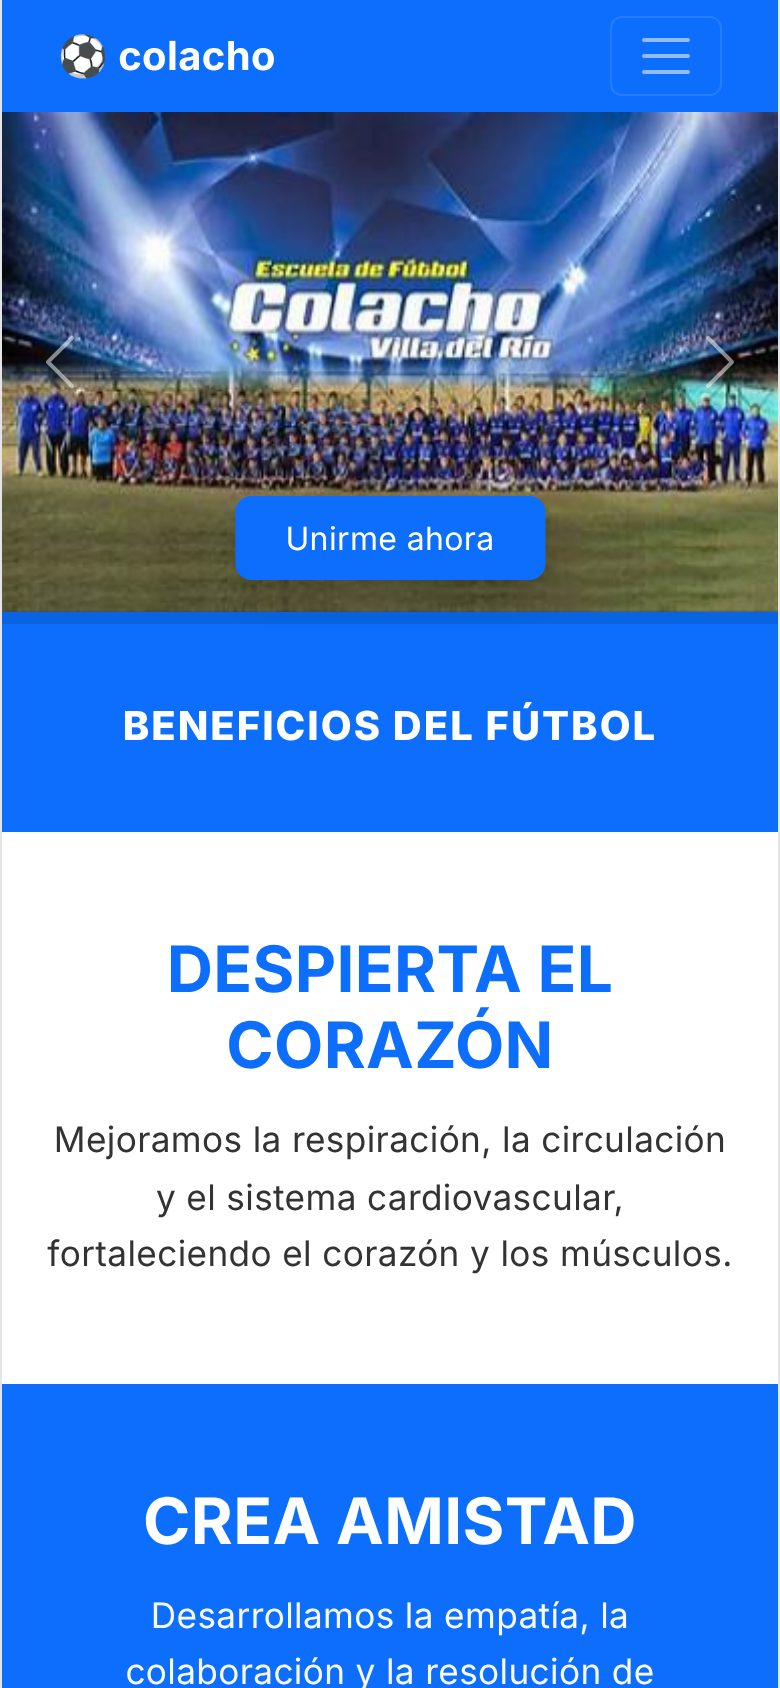
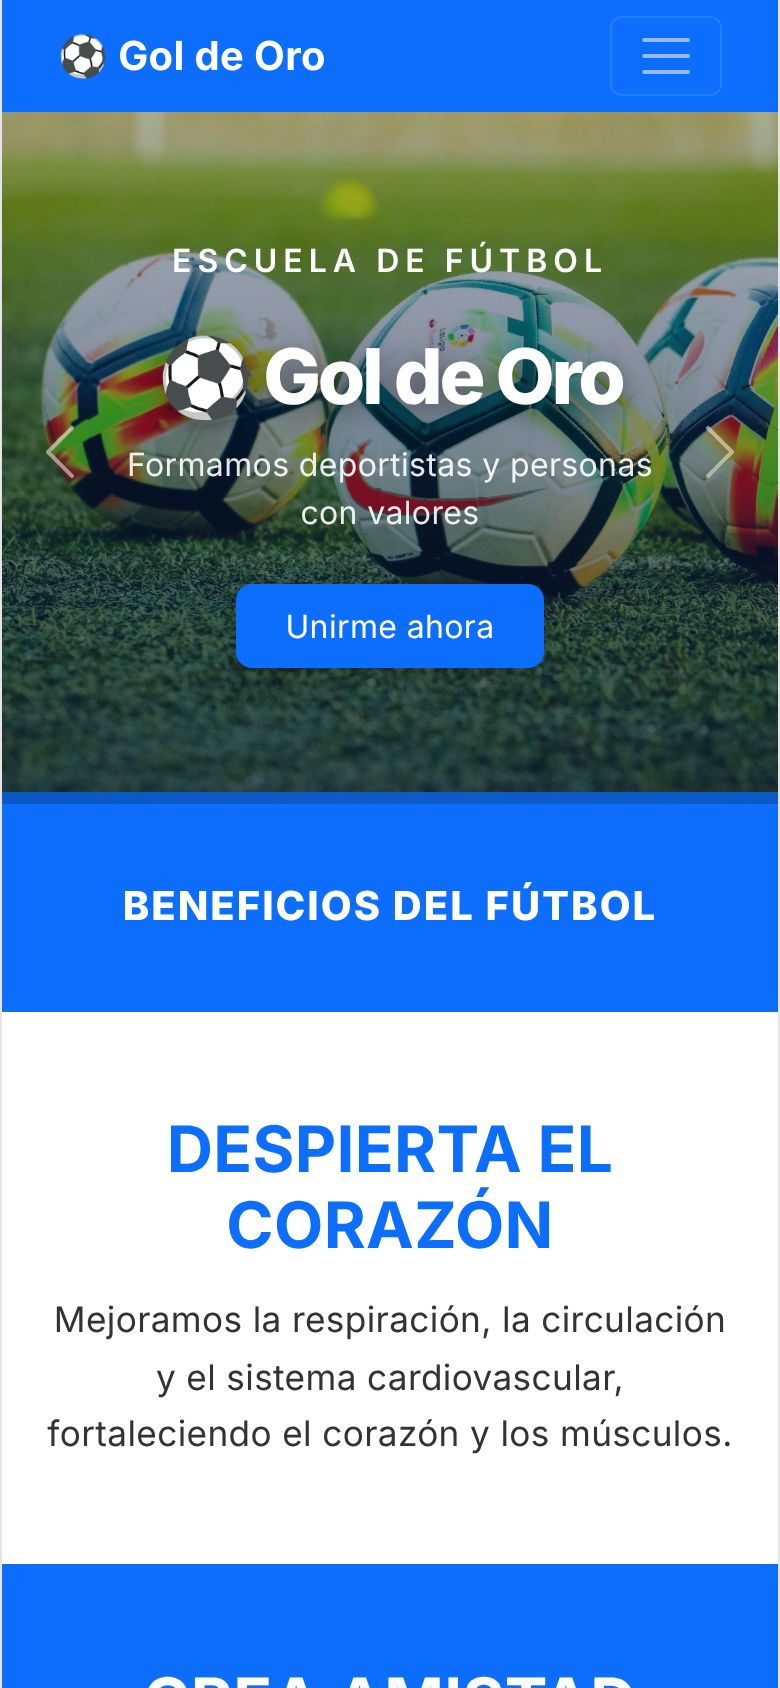
first commit

diff --git a/src/auth/usuariosPrueba.ts b/src/auth/usuariosPrueba.ts
@@ -18,7 +18,7 @@ interface UsuarioConPassword extends Usuario {
 }
 
 export const USUARIOS_PRUEBA: UsuarioConPassword[] = [
-  { id: 1, nombre: 'Administrador', email: 'admin@@goldeoro.com', password: 'admin123', rol: 'admin' },
+  { id: 1, nombre: 'Administrador', email: 'admin@goldeoro.com', password: 'admin123', rol: 'admin' },
   { id: 2, nombre: 'Prof. Alberto', email: 'profe@goldeoro.com', password: 'profe123', rol: 'profesor' },
   { id: 3, nombre: 'Carlos Gómez', email: 'padre@goldeoro.com', password: 'padre123', rol: 'padre', jugadorId: 10 },
   { id: 4, nombre: 'Santiago G.', email: 'jugador@goldeoro.com', password: 'jugador123', rol: 'jugador', jugadorId: 10 },

diff --git a/README.md b/README.md
@@ -1,10 +1,12 @@
-# ⚽ Escuela de Fútbol Colacho
+# ⚽ Escuela de Fútbol Gol de Oro
 
-Plataforma web para una escuela de fútbol infantil de Villa del Río: una **página pública** para atraer nuevas familias y una **zona privada con 4 paneles** (administrador, profesor, padre y jugador), cada uno con sus propias funciones.
+Plataforma web para una escuela de fútbol infantil: una **página pública** para atraer nuevas familias y una **zona privada con 4 paneles** (administrador, profesor, padre y jugador), cada uno con sus propias funciones.
 
-🔗 **Demo en vivo:** [escuela-ten-omega.vercel.app](https://escuela-ten-omega.vercel.app)
+🔗 **Demo en vivo:** [TU-LINK.vercel.app](https://TU-LINK.vercel.app)
 
-> 🧪 **Proyecto en desarrollo.** El frontend está completo; el backend (API + base de datos) es la siguiente etapa. Mientras tanto, los datos se guardan en el navegador (`localStorage`) y el inicio de sesión usa usuarios de prueba.
+> ⚠ **Proyecto de portafolio.** "Gol de Oro" es una escuela **ficticia**: los nombres, contactos y datos son de ejemplo.
+>
+> 🧪 **En desarrollo.** El frontend está completo; el backend (API + base de datos) es la siguiente etapa. Mientras tanto, los datos se guardan en el navegador (`localStorage`) y el inicio de sesión usa usuarios de prueba.
 
 ![Página de inicio](docs/capturas/inicio-escritorio.jpg)
 
@@ -12,14 +14,14 @@ Plataforma web para una escuela de fútbol infantil de Villa del Río: una **pá
 
 ## 🔑 Pruébalo
 
-Entra a [/login](https://escuela-ten-omega.vercel.app/login) y usa los botones de **usuarios de prueba**, o escribe:
+Entra a [/login](https://TU-LINK.vercel.app/login) y usa los botones de **usuarios de prueba**, o escribe:
 
 | Rol | Correo | Contraseña |
 |---|---|---|
-| Administrador | `admin@colacho.com` | `admin123` |
-| Profesor | `profe@colacho.com` | `profe123` |
-| Padre | `padre@colacho.com` | `padre123` |
-| Jugador | `jugador@colacho.com` | `jugador123` |
+| Administrador | `admin@goldeoro.com` | `admin123` |
+| Profesor | `profe@goldeoro.com` | `profe123` |
+| Padre | `padre@goldeoro.com` | `padre123` |
+| Jugador | `jugador@goldeoro.com` | `jugador123` |
 
 💡 **Prueba esto:** entra como **profesor**, arma una alineación en *Posiciones* y programa un partido en *Calendario*. Luego cierra sesión, entra como **padre** y verás esos mismos cambios, con su hijo destacado con ⭐ en la cancha.
 
@@ -112,8 +114,8 @@ src/
 Necesitas [Node.js](https://nodejs.org) 22 o superior.
 
 ```bash
-git clone https://github.com/carlosgomez2654/escuela.git
-cd escuela
+git clone https://github.com/carlosgomez2654/escuela-futbol-gol-de-oro.git
+cd escuela-futbol-gol-de-oro
 npm install
 npm run dev
 ```
@@ -135,11 +137,15 @@ Abre `http://localhost:5173` en el navegador.
 - [ ] Base de datos **PostgreSQL** (usuarios, jugadores, categorías, pagos, eventos)
 - [ ] Inicio de sesión real con contraseñas cifradas y tokens
 - [ ] Conectar el frontend con la API
-- [ ] Fotos reales de la escuela en el carrusel
+
+---
+
+## 📷 Créditos
+
+Fotografías de [Unsplash](https://unsplash.com), usadas bajo la [Licencia de Unsplash](https://unsplash.com/license).
 
 ---
 
 ## 👤 Autor
 
 **Carlos Gómez** · [GitHub](https://github.com/carlosgomez2654)
-
